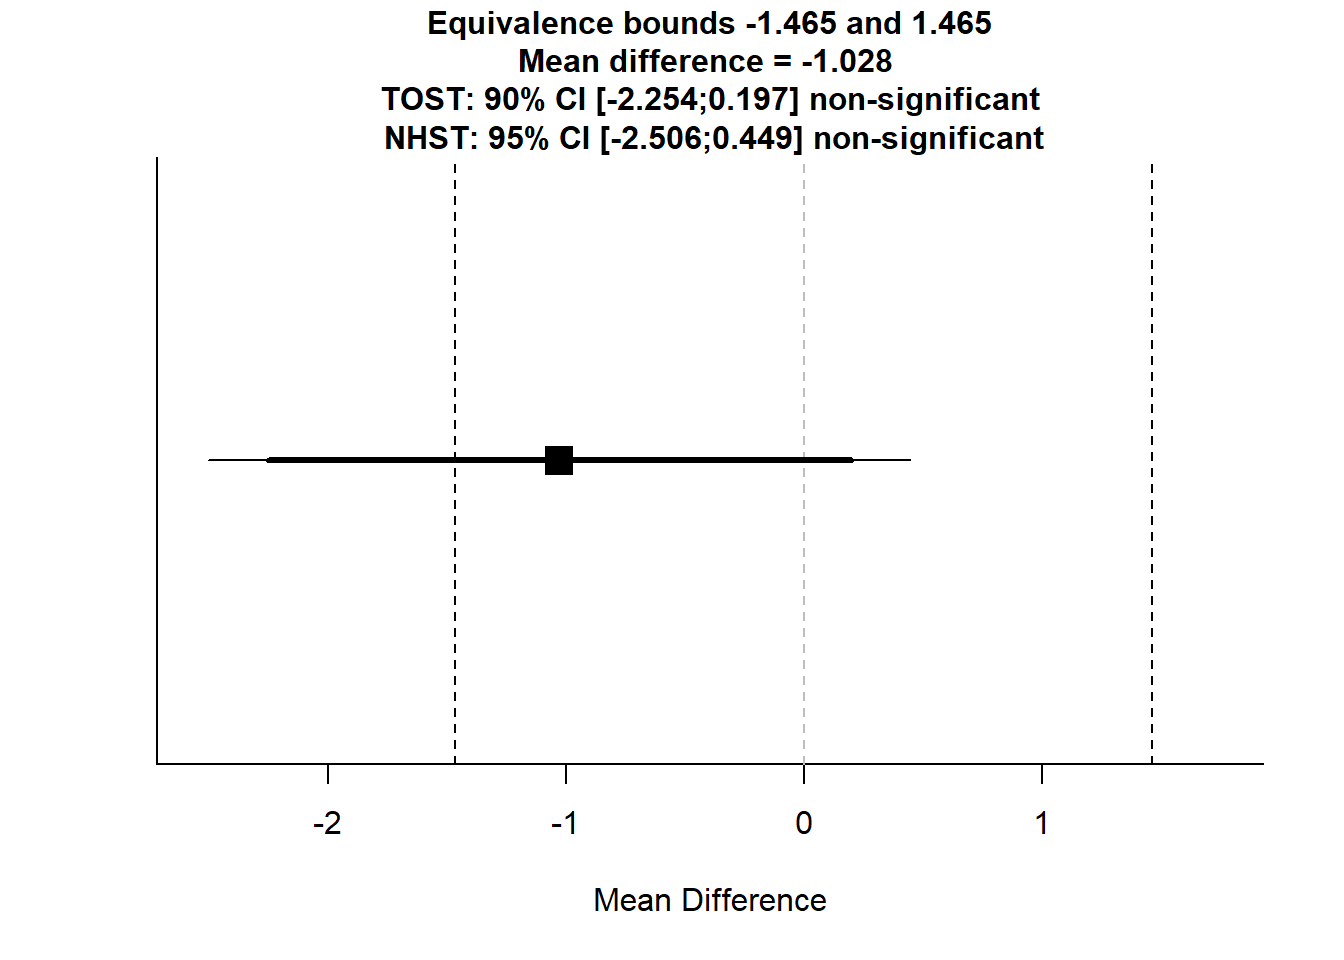
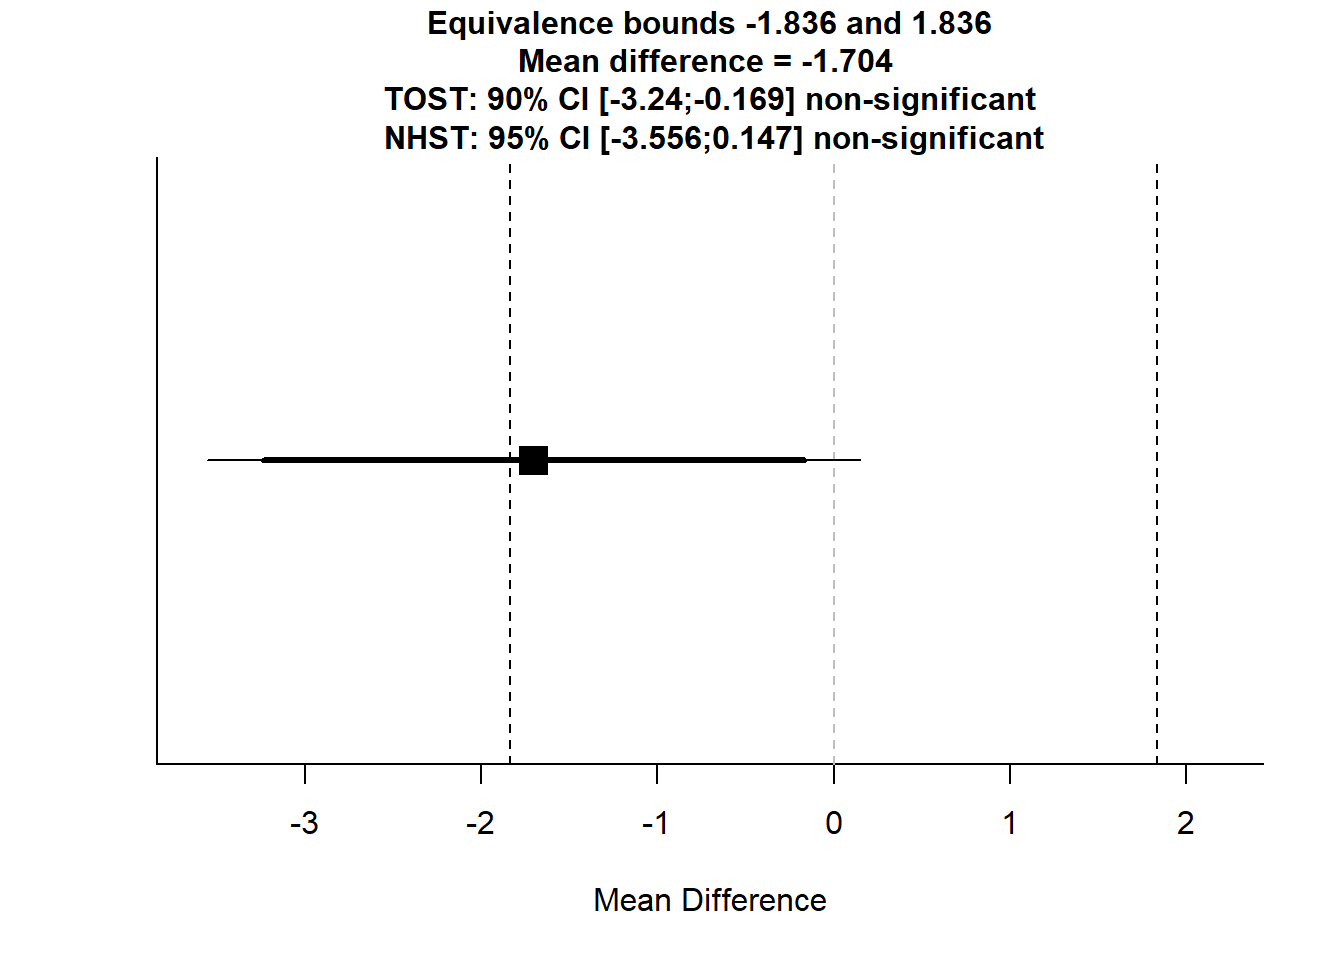
missed out mean and sd =(

diff --git a/code.html b/code.html
@@ -506,15 +506,15 @@ head(data)</code></pre>
 ## X12 reference 16 11.2500 2.2657</code></pre>
 <p>Then we input the values into the <code>TOSTtwo</code> function.</p>
 <pre class="r"><code>TOSTtwo(
-  m1=8.9091, m2=9.9375,
-  sd1=2.0226, sd2=1.6919,
+  m1=9.5455, m2=11.2500,
+  sd1=2.3394, sd2=2.2657,
   n1=11, n2=16,
   low_eqbound_d=-0.8, high_eqbound_d=0.8,
   alpha=0.05, var.equal=TRUE
 )</code></pre>
 <pre><code>## TOST results:
-## t-value lower bound: 0.609   p-value lower bound: 0.274
-## t-value upper bound: -3.48   p-value upper bound: 0.0009
+## t-value lower bound: 0.147   p-value lower bound: 0.442
+## t-value upper bound: -3.94   p-value upper bound: 0.0003
 ## degrees of freedom : 25
 ## 
 ## Equivalence bounds (Cohen&#39;s d):
@@ -522,23 +522,23 @@ head(data)</code></pre>
 ## high eqbound: 0.8
 ## 
 ## Equivalence bounds (raw scores):
-## low eqbound: -1.4651 
-## high eqbound: 1.4651
+## low eqbound: -1.8364 
+## high eqbound: 1.8364
 ## 
 ## TOST confidence interval:
-## lower bound 90% CI: -2.254
-## upper bound 90% CI:  0.197
+## lower bound 90% CI: -3.24
+## upper bound 90% CI:  -0.169
 ## 
 ## NHST confidence interval:
-## lower bound 95% CI: -2.506
-## upper bound 95% CI:  0.449
+## lower bound 95% CI: -3.556
+## upper bound 95% CI:  0.147
 ## 
 ## Equivalence Test Result:
-## The equivalence test was non-significant, t(25) = 0.609, p = 0.274, given equivalence bounds of -1.465 and 1.465 (on a raw scale) and an alpha of 0.05.</code></pre>
+## The equivalence test was non-significant, t(25) = 0.147, p = 0.442, given equivalence bounds of -1.836 and 1.836 (on a raw scale) and an alpha of 0.05.</code></pre>
 <pre><code>## </code></pre>
 <pre><code>## 
 ## Null Hypothesis Test Result:
-## The null hypothesis test was non-significant, t(25) = -1.434, p = 0.164, given an alpha of 0.05.</code></pre>
+## The null hypothesis test was non-significant, t(25) = -1.896, p = 0.0696, given an alpha of 0.05.</code></pre>
 <pre><code>## </code></pre>
 <pre><code>## 
 ## Based on the equivalence test and the null-hypothesis test combined, we can conclude that the observed effect is statistically not different from zero and statistically not equivalent to zero.</code></pre>
@@ -580,7 +580,7 @@ decreasers = c(
 <pre class="r"><code>effect_mat = effect_alt(fit, effect_size=1.5, increasers, decreasers, term=&#39;treatment&#39;)</code></pre>
 <p>Perform a multivariate equivalence test.</p>
 <pre class="r"><code>equivtest(fit.cord, coeffs=effect_mat)</code></pre>
-<pre><code>## Time elapsed: 0 hr 0 min 42 sec</code></pre>
+<pre><code>## Time elapsed: 0 hr 0 min 41 sec</code></pre>
 <pre><code>## Equivalence Test Table
 ## 
 ## object0: abund ~ time
@@ -625,7 +625,7 @@ decreasers = c(&#39;Blattodea&#39;, &#39;Tricladida&#39;)</code></pre>
 <pre class="r"><code>effect_mat = effect_alt(fit_reveg, effect_size=5, increasers, decreasers, term=&#39;treatment&#39;)</code></pre>
 <p>Finally, we specify the <code>object0</code> argument to perform the test.</p>
 <pre class="r"><code>equivtest(fit_reveg.cord, effect_mat, object0=fit0.cord)</code></pre>
-<pre><code>## Time elapsed: 0 hr 0 min 29 sec</code></pre>
+<pre><code>## Time elapsed: 0 hr 0 min 26 sec</code></pre>
 <pre><code>## Equivalence Test Table
 ## 
 ## object0: abund ~ 1 + offset(log(pitfalls))
@@ -634,7 +634,7 @@ decreasers = c(&#39;Blattodea&#39;, &#39;Tricladida&#39;)</code></pre>
 ## Multivariate test:
 ##         Res.Df Df.diff   Dev Pr(&gt;Dev)
 ## object0      9                       
-## object       8       1 78.25    0.641
+## object       8       1 78.25    0.662
 ## Arguments:
 ##  Test statistics calculated assuming uncorrelated response (for faster computation) 
 ## P-value calculated using 999 Monte Carlo samples from a factor analytic Gaussian copula 
@@ -693,8 +693,8 @@ psych::describeBy(
 )[,c(&#39;group1&#39;, &#39;n&#39;, &#39;mean&#39;, &#39;sd&#39;)]
 
 TOSTtwo(
-  m1=8.9091, m2=9.9375,
-  sd1=2.0226, sd2=1.6919,
+  m1=9.5455, m2=11.2500,
+  sd1=2.3394, sd2=2.2657,
   n1=11, n2=16,
   low_eqbound_d=-0.8, high_eqbound_d=0.8,
   alpha=0.05, var.equal=TRUE

diff --git a/slides.html b/slides.html
@@ -578,7 +578,7 @@ effect_mat = effect_alt(fit, effect_size=1.5, increasers, decreasers, term=&#39;
 
 <pre class = 'prettyprint lang-r'>equivtest(fit.cord, coeffs=effect_mat)</pre>
 
-<pre >## Time elapsed: 0 hr 0 min 45 sec</pre>
+<pre >## Time elapsed: 0 hr 0 min 44 sec</pre>
 
 <pre >## Equivalence Test Table
 ## 
